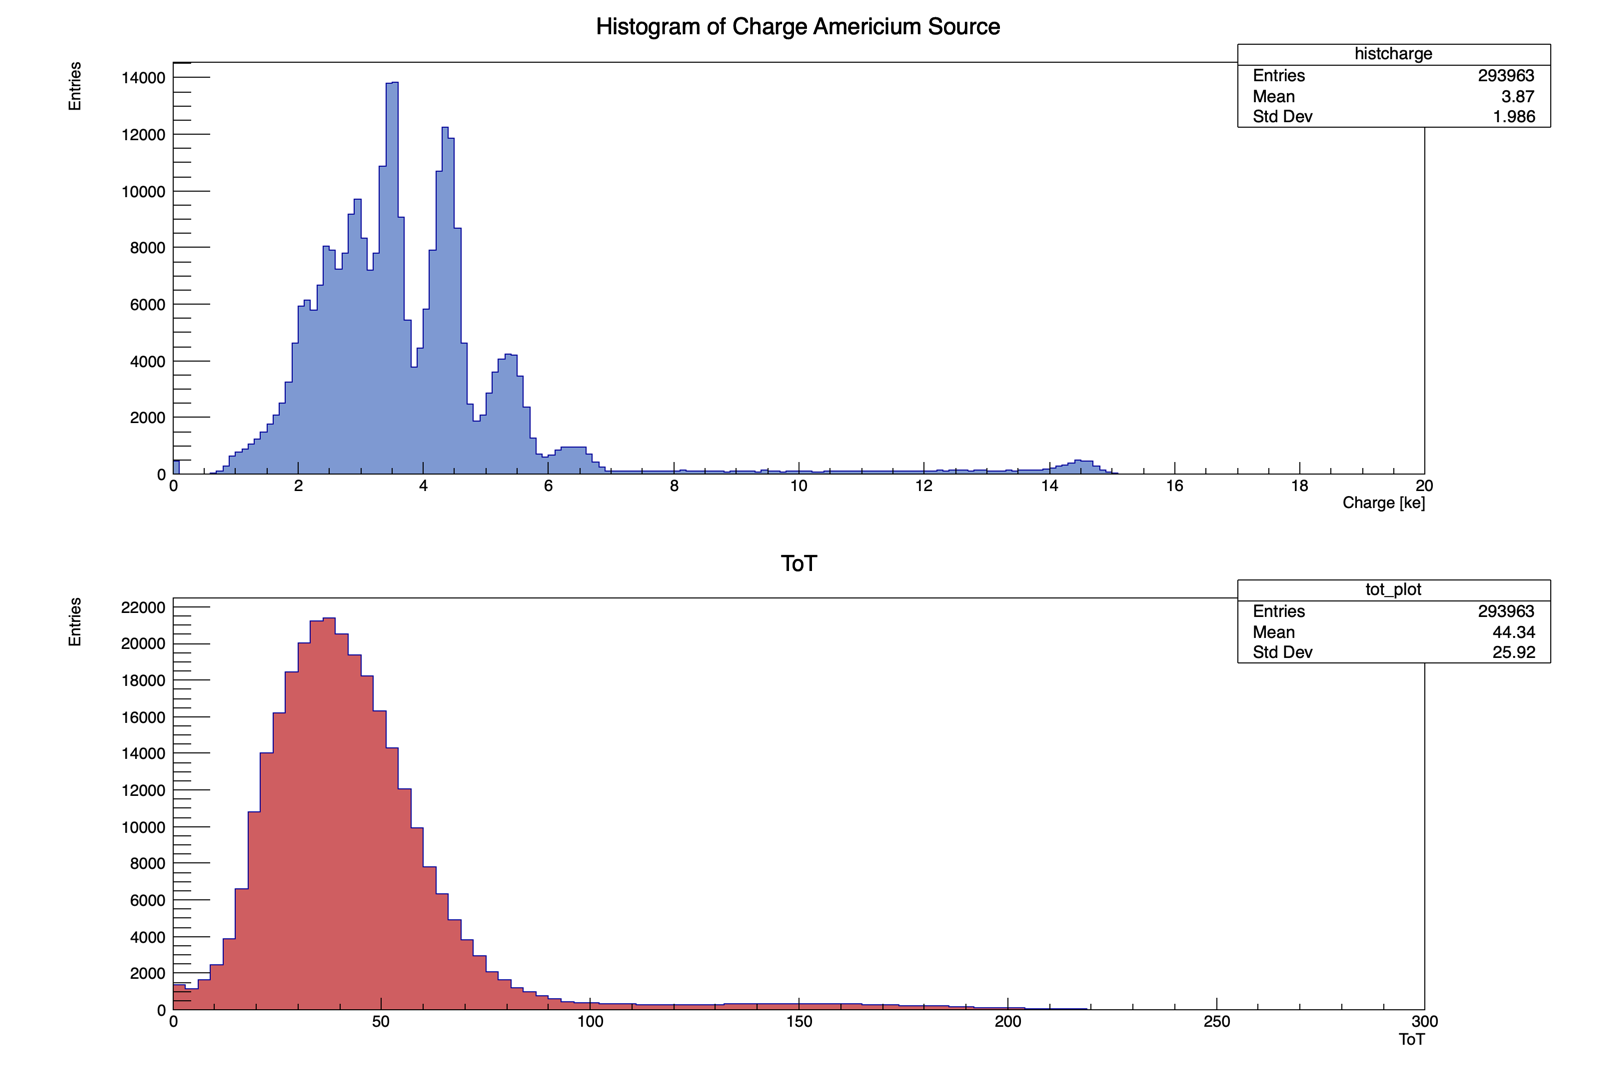
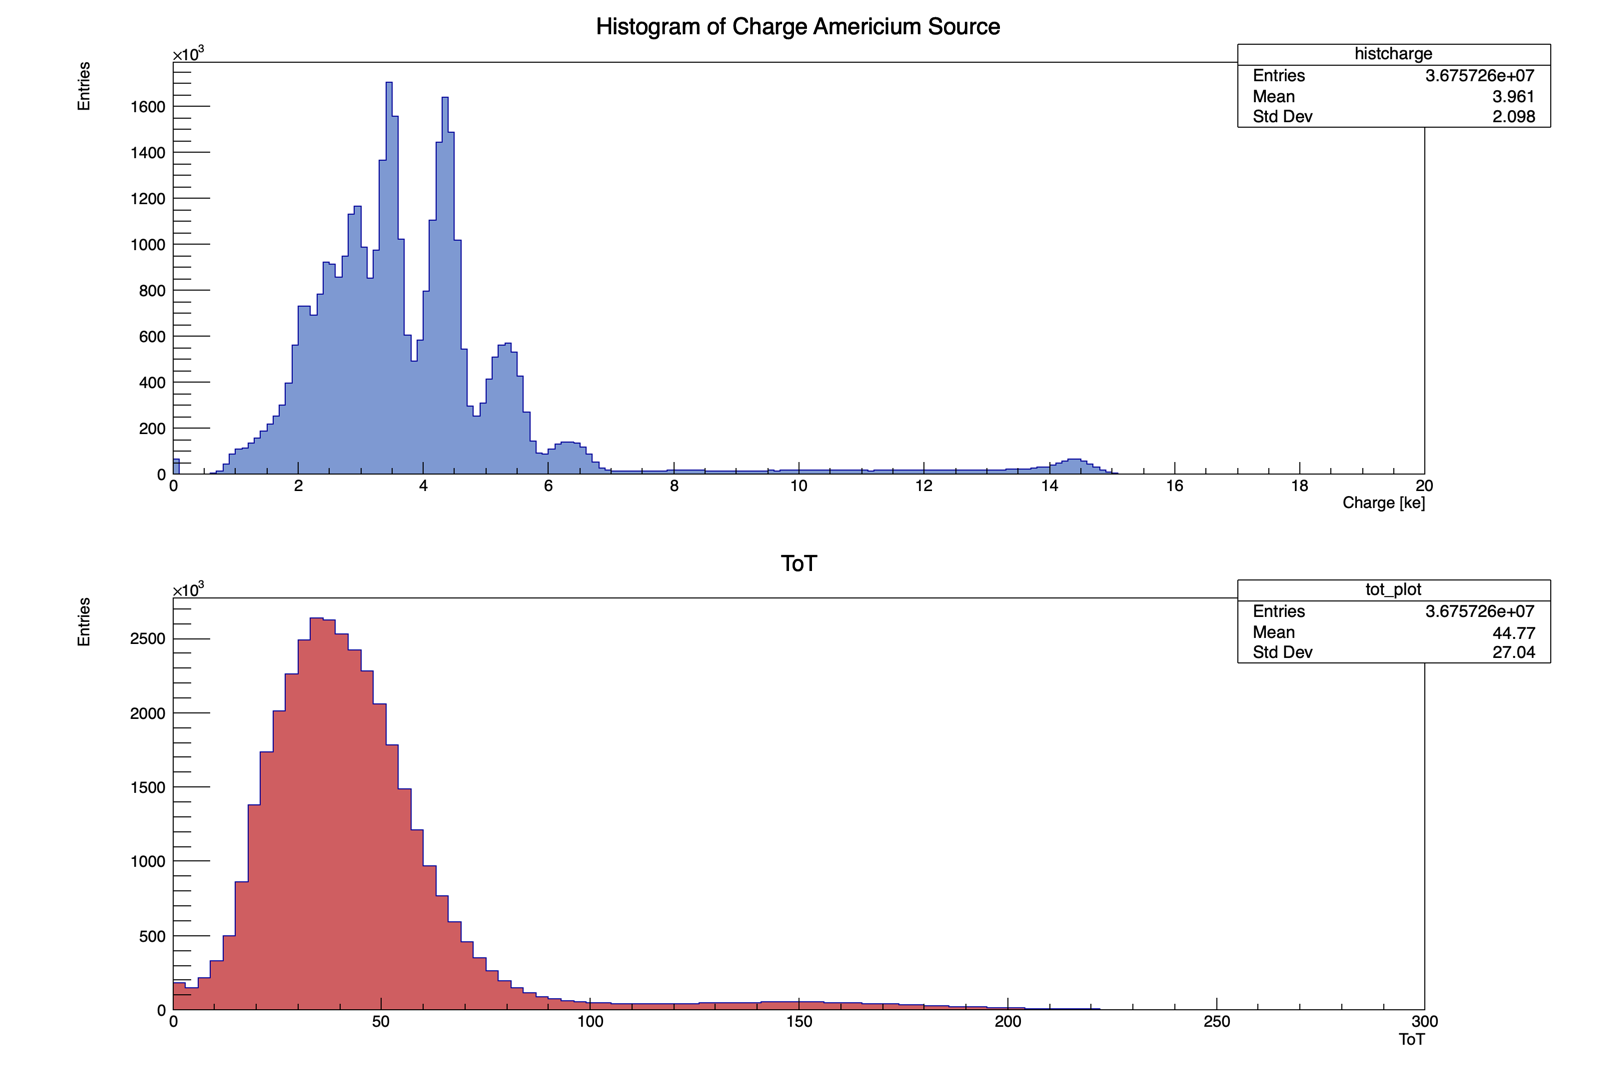
new measurement added

diff --git a/standaardanalyse.cpp b/standaardanalyse.cpp
@@ -23,6 +23,7 @@ const char* filename2="N116-250403-150114";
 const char* N10_Long = "N10-250404-143700";
 const char* N10_Short = "N10-250409-113326";
 const char* N112 = "N112-250407-162648";
+const char* N112_Long = "N112-250411-101613";
 const char* N113 = "N113-250408-100406";
 const char* N116 = "N116-250408-105332";
 // Constants
@@ -59,7 +60,7 @@ int standaardanalyse()
     // auto [hitmap1, HistogramArray1, histcharge1, tot_plot1, singlepixelplot1] = get_file_data(Form("%s.root", filename));
     // auto [hitmap2, HistogramArray2, histcharge2, tot_plot2, singlepixelplot2] = get_file_data(Form("%s.root", filename2));
     // auto [hitmap3, HistogramArray3, histcharge3, tot_plot3, singlepixelplot3] = get_file_data(Form("%s.root", N10_Long));
-    auto [hitmap4, HistogramArray4, histcharge4, tot_plot4, singlepixelplot4, SingleToTPlot4] = get_file_data(Form("Am-241 Runs/%s.root", N10_Short));
+    auto [hitmap4, HistogramArray4, histcharge4, tot_plot4, singlepixelplot4, SingleToTPlot4] = get_file_data(Form("Data/Am-241 Runs/%s.root", N112_Long));
 
     // Make Histograms
     // MakeChargeAndToTHistograms(histcharge4, tot_plot4);
